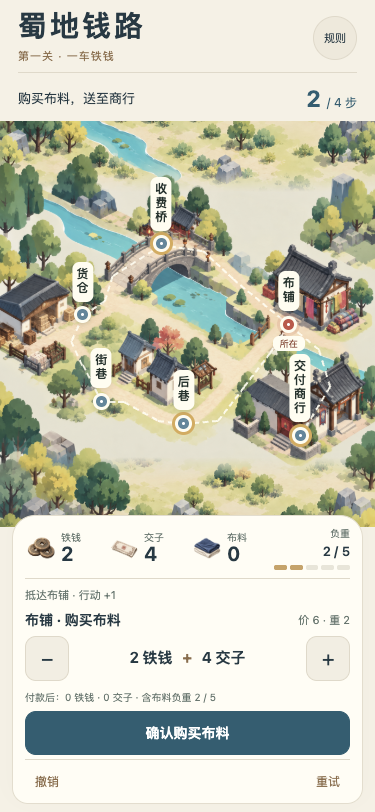
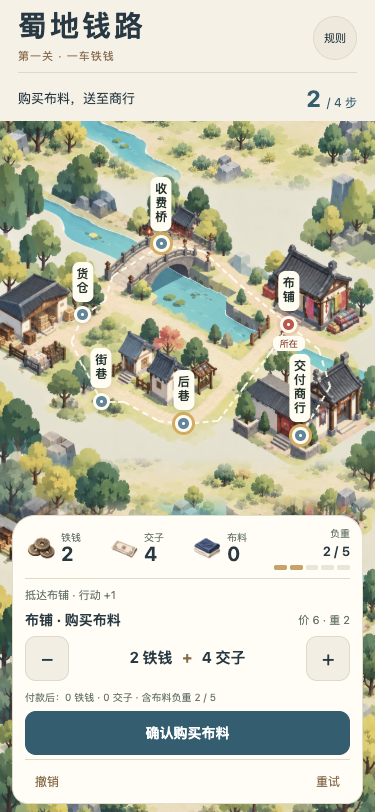
Extend scenery behind the dock and retire Sites publishing

Changed region(s): [[0.0, 0.6158, 1.0, 1.0], [0.088, 0.6158, 0.6747, 0.6466]]

diff --git a/web/app.js b/web/app.js
@@ -20,7 +20,7 @@ function render(){const v=ShuScene.decorate(ShuPresenter.view(session,x,p)),s=v.
  else if(screen==='intro')html=`<section class="intro-screen"><div class="eyebrow">今日委托</div><h1 class="cover-title">一车铁钱</h1><p class="cover-copy">买一份布，送往商行。<br>你只有 ${L.maxSteps} 步，钱袋只能承重 ${L.capacity} 格。</p><img class="intro-art" src="/miniapp/assets/generated/cloth.png" alt="布料"><div class="brief-rules"><p><b>轻装出发</b><span>8 铁钱在货仓，先兑换交子减重。</span></p><p><b>混合付款</b><span>布价 ${L.goods.price}，至少付 ${L.goods.minIron} 铁钱。</span></p><p><b>选择商路</b><span>桥路收1铁钱，街巷免费但多走一步。</span></p></div>${btn('整理钱袋 →','play')}</section>`;
  else if(s.status!=='playing')html=`<section class="result-screen"><span class="eyebrow">${s.status==='won'?'委托完成':'再试一次'}</span><h2 class="cover-title">${s.status==='won'?'布已送达':'行程未成'}</h2><img class="result-art" src="/miniapp/assets/generated/${s.status==='won'?'delivery':'warehouse'}.png" alt=""><p>${s.status==='won'?'这一程，钱与路都安排妥当。':'步数已用尽，尚未携布抵达商行。'}</p><div class="result-stats"><span>行动 <b>${s.steps} / ${L.maxSteps}</b></span><span>剩余资金 <b>${s.iron+s.note}</b></span></div><p class="muted">${s.iron} 铁钱 · ${s.note} 交子</p><p class="path">${v.pathText}</p><div class="result-buttons">${btn('重新挑战','retry')}${btn('撤销上一步','undo','secondary',!v.canUndo)}</div></section>`;
  else{
- html=`<header class="topbar"><div class="row"><div><h1 class="brand">蜀地钱路</h1><span class="chapter">第一关 · ${L.title}</span></div>${btn('规则','rules','menu-button')}</div><div class="mission"><span>${s.bought?'将布料送至交付商行':'购买布料，送至商行'}</span><span class="steps"><b>${s.steps}</b> / ${L.maxSteps} 步</span></div></header>${mapView(v)}
+ html=`<div class="panel-terrain" aria-hidden="true"><img src="/miniapp/assets/approved/town-extended.png" alt="" draggable="false"></div><header class="topbar"><div class="row"><div><h1 class="brand">蜀地钱路</h1><span class="chapter">第一关 · ${L.title}</span></div>${btn('规则','rules','menu-button')}</div><div class="mission"><span>${s.bought?'将布料送至交付商行':'购买布料，送至商行'}</span><span class="steps"><b>${s.steps}</b> / ${L.maxSteps} 步</span></div></header>${mapView(v)}
  <section class="dock"><div class="wallet"><div class="walletitem">${icon('iron')}<div><span class="label">${s.departed?'铁钱':'货仓铁钱'}</span><b>${s.iron}</b></div></div><div class="walletitem">${icon('note')}<div><span class="label">交子</span><b>${s.note}</b></div></div><div class="walletitem">${icon('cloth')}<div><span class="label">布料</span><b>${s.cloth}</b></div></div><div class="load ${v.weight>L.capacity?'over':''}"><span class="label">${s.departed?'负重':'待装载'}</span><b>${v.weight} / ${L.capacity}</b><div class="capacity" aria-label="随身负重 ${v.bagWeight} / ${L.capacity}">${v.slots.map(slot=>`<i class="slot ${slot.kind}"></i>`).join('')}</div></div></div>
  <div class="feedback ${error?'error':''}" role="status">${message}</div><div class="action-panel">`;
  if(!s.departed)html+=`<div class="row"><strong>货仓 · ${s.exchanged?'准备出发':'兑换交子'}</strong><span class="muted">${s.exchanged?'已兑换一次':'手续费 '+L.exchangeFee}</span></div>${!s.exchanged?`<div class="stepper">${btn('−','x-','small',x<=2)}<span class="stepper-value">${x} 铁钱 <em>→</em> ${x-L.exchangeFee} 交子</span>${btn('+','x+','small',x>=s.iron)}</div><div class="preview">${v.exchangeText}</div><div class="action-buttons">${btn('确认兑换','exchange','primary',!v.exchangeOk)}${btn('确认出发','depart','secondary',v.weight>L.capacity)}</div>`:`<p class="ready-copy">${v.preparationText}</p>${btn('确认出发','depart','primary',v.weight>L.capacity)}`}`;

diff --git a/miniapp/styles/game.css b/miniapp/styles/game.css
@@ -44,3 +44,8 @@ html,body,page{margin:0;height:100%;overflow:hidden;background:#e9e8df;color:var
 .continuation-frame{position:absolute;left:0;top:50%;width:100%;aspect-ratio:2/3;min-height:100%;transform:translateY(-50%)}
 .continuation-art{position:absolute;inset:0;width:100%;height:100%;object-fit:cover;filter:saturate(var(--art-saturation))}
 .scene-art{position:absolute;inset:0;pointer-events:none;z-index:0;-webkit-mask-image:linear-gradient(to bottom,transparent,#000 22px,#000 calc(100% - 22px),transparent);mask-image:linear-gradient(to bottom,transparent,#000 22px,#000 calc(100% - 22px),transparent)}
+
+/* Continue foreground scenery behind the dock and its side gutters to the safe-area edge. */
+.panel-terrain{position:absolute;left:0;right:0;top:40%;bottom:0;overflow:hidden;pointer-events:none;z-index:0}
+.panel-terrain img,.panel-terrain image{position:absolute;left:0;bottom:0;display:block;width:100%;height:auto;aspect-ratio:2/3;filter:saturate(var(--art-saturation));pointer-events:none}
+.scene-continuation{-webkit-mask-image:linear-gradient(to bottom,#000 calc(100% - 32px),transparent);mask-image:linear-gradient(to bottom,#000 calc(100% - 32px),transparent)}

diff --git a/README.md b/README.md
@@ -2,9 +2,9 @@
 
 北宋四川交子文化背景的二维轻策略解谜原型。已实现第一关《一车铁钱》，采用参考图指导的生成式游戏美术。游戏数值不代表真实宋代货币兑换比例。
 
-## 在线试玩与仓库
+## 本地试玩与仓库
 
-在线版：https://shu-trade-routes.liu-ze-min-7252.chatgpt.site （当前仅站点所有者账号可访问）。
+当前只维护本地试玩和 GitHub，已停止 ChatGPT Sites 发布流程。
 
 GitHub私有仓库：https://github.com/zzzz1121/shu-trade-routes 。另一台电脑登录有权限的GitHub账号后克隆：
 
@@ -14,7 +14,7 @@ cd shu-trade-routes
 npm start
 ```
 
-网页静态包：`npm run build:web` 输出到 `dist/`，与本地试玩及小程序共用同一套规则源文件。Sites站点身份保存在 `.openai/hosting.json`；后续发布复用这个站点，不另建。GitHub保存完整开发源码，Sites发布浏览器运行包；推送GitHub不会自动发布Sites。
+网页静态包：`npm run build:web` 输出到 `dist/`，与本地试玩及小程序共用同一套规则源文件。构建静态包不会自动发布。历史托管配置已移到 `docs/archive/sites-hosting.json`，不再作为当前发布配置。
 
 ## 本地试玩
 
@@ -73,11 +73,6 @@ npm test
 
 指定解法：兑换 5 得 4 交子，带 3 铁钱；经桥付 1 钱，在布铺付 2 铁钱+4 交子，3 步交付余额 0。走街巷、后巷免桥费，4 步交付剩 1 铁钱。兑换 3/4 以及其他合法混合付款也能通关。
 
-## 两台电脑协作
-
-首次在第二台电脑：从 GitHub 克隆仓库，用 VS Code 打开，安装 Node 后 `npm start`。
-
-日常开始前 `git pull --ff-only`；完成后 `git add .`、`git commit -m "说明修改"`、`git push`。避免两台电脑同时修改同一文件；较大功能用单独分支。AppID/开发者工具本地配置被 gitignore 排除，每台电脑独立配置。不在仓库提交令牌或账号凭据。
 
 ## 后续优先级
 

diff --git a/outputs/交付说明.md b/outputs/交付说明.md
@@ -1,6 +1,6 @@
 # 《蜀地钱路》V0.1
 
-在线试玩：https://shu-trade-routes.liu-ze-min-7252.chatgpt.site （当前仅你的站点账号可访问）。
+当前只保留本地试玩和 GitHub，停止在线发布。
 
 GitHub私有仓库：https://github.com/zzzz1121/shu-trade-routes
 
@@ -8,6 +8,6 @@ GitHub私有仓库：https://github.com/zzzz1121/shu-trade-routes
 
 VS Code打开项目，执行 `sh scripts/dev.sh`。另一台电脑从上述仓库克隆，安装Node后执行 `npm start`。`npm run build:web` 生成可部署的网页运行包。
 
-20项规则/适配器/展示测试通过；本次实际对发布用静态包执行三种手机尺寸浏览器回归，A/B通关、撤销、重试、失败与单屏交互通过。Sites返回发布成功。
+20项规则/适配器/展示测试通过；本次实际对发布用静态包执行三种手机尺寸浏览器回归，A/B通关、撤销、重试、失败与单屏交互通过。
 
 小程序根目录miniapp/；官方编译和真机验证仍需真实AppID及开发者工具。

diff --git a/docs/visual-spec.md b/docs/visual-spec.md
@@ -54,3 +54,7 @@
 新增 `miniapp/assets/approved/town-extended.png`，由内置 imagegen 对中央图集向上下扩图。独立 scene-continuation 底层填满任务区与钱袋区之间的弹性高度，保留原中央图集的634:522比例和六个节点锚点。中央图集的上下边缘以22px蒙版过渡到延展地形；文字、路线和点击层不参与蒙版。地形进入底部面板后方，避免留白带。全场景继续使用0.62饱和度令牌。
 
 `tests/terrain-extension.cjs` 验证375×812、390×844、430×932上的地形覆盖、图片加载、图集比例和点击穿透；`tests/fixed-screen.cjs` 继续验证两条路线及单屏操作。
+
+## 底部面板两侧景物
+
+游戏态新增 panel-terrain 底层，复用现有延展图的下方景物，覆盖操作面板两侧及底部安全区域。保持图片原比例和0.62饱和度；地图末端以32px过渡衔接到底层。该层不接收点击，不出现在首页与结算页。

diff --git a/outputs/视觉改造交付说明.md b/outputs/视觉改造交付说明.md
@@ -17,3 +17,7 @@
 原空白带已接上林地、河岸和草地，场景填满顶部任务栏与底部钱袋之间的空间。保留原中央建筑比例、六个交互节点和0.62低饱和度。图片由内置imagegen扩图，文件：miniapp/assets/approved/town-extended.png；完整提示词：docs/art-prompts.md 的 town-extended 小节，要求向上下延展地形、保持中央构图、不新增建筑和UI。
 
 实际截图 extended-scene-390.png / extended-map-preview.png。三种手机尺寸的地形覆盖、比例、点击穿透及原有两条通关流程检查通过。
+
+## 2026-10-16 更新
+
+面板两侧及底部的空边已填充景物，最新截图 game-preview.png。按用户要求只保留本地试玩及GitHub更新，停止ChatGPT在线发布，历史托管配置已归档；旧私有站点未执行远端删除或下线。

diff --git a/docs/test-report.md b/docs/test-report.md
@@ -28,3 +28,7 @@
 ## 在线发布验收
 
 使用 scripts/build-web.js 将现有运行文件打包到独立静态目录，未改游戏规则。BASE_URL=http://127.0.0.1:4174 执行 tests/fixed-screen.cjs，针对实际发布目录的三个手机尺寸、两条通关路线和全部操作状态通过。Sites返回status=succeeded；站点当前为所有者私有访问。
+
+## 2026-10-16 本地回归
+
+修复底部操作面板两侧浅色空边后，实际执行 tests/fixed-screen.cjs，三个手机尺寸、两条通关路线、交易、撤销、规则与无滚动检查通过。检查390px实际截图，景物覆盖面板两侧和屏幕底部。原生模板基础XML结构检查通过。本轮未部署在线版。

diff --git a/docs/hosting-status.md b/docs/hosting-status.md
@@ -1,0 +1,5 @@
+# 托管状态
+
+2026-10-16：按用户要求，只维护本地试玩和 GitHub。取消本轮 Sites 源码同步，未向 Sites 发布本轮修改；移除 README 在线入口，将原 .openai/hosting.json 归档到 docs/archive/sites-hosting.json。
+
+此前的私有站点没有执行远端删除或下线，现有 Sites 工具不提供这两个操作。归档保留站点身份，避免误创建重复站点。除非用户重新要求，不执行在线发布。
